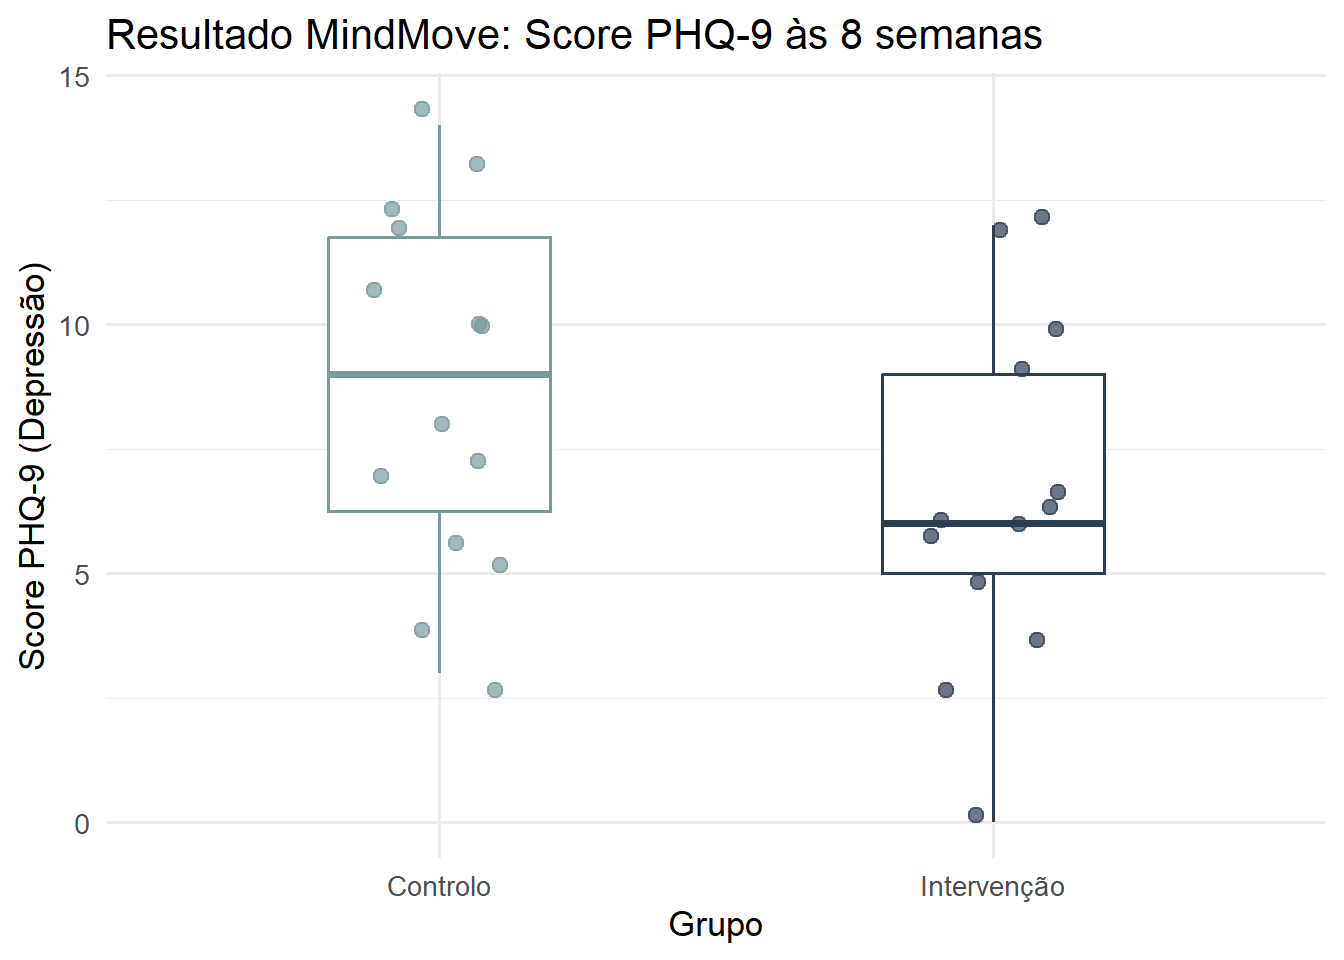
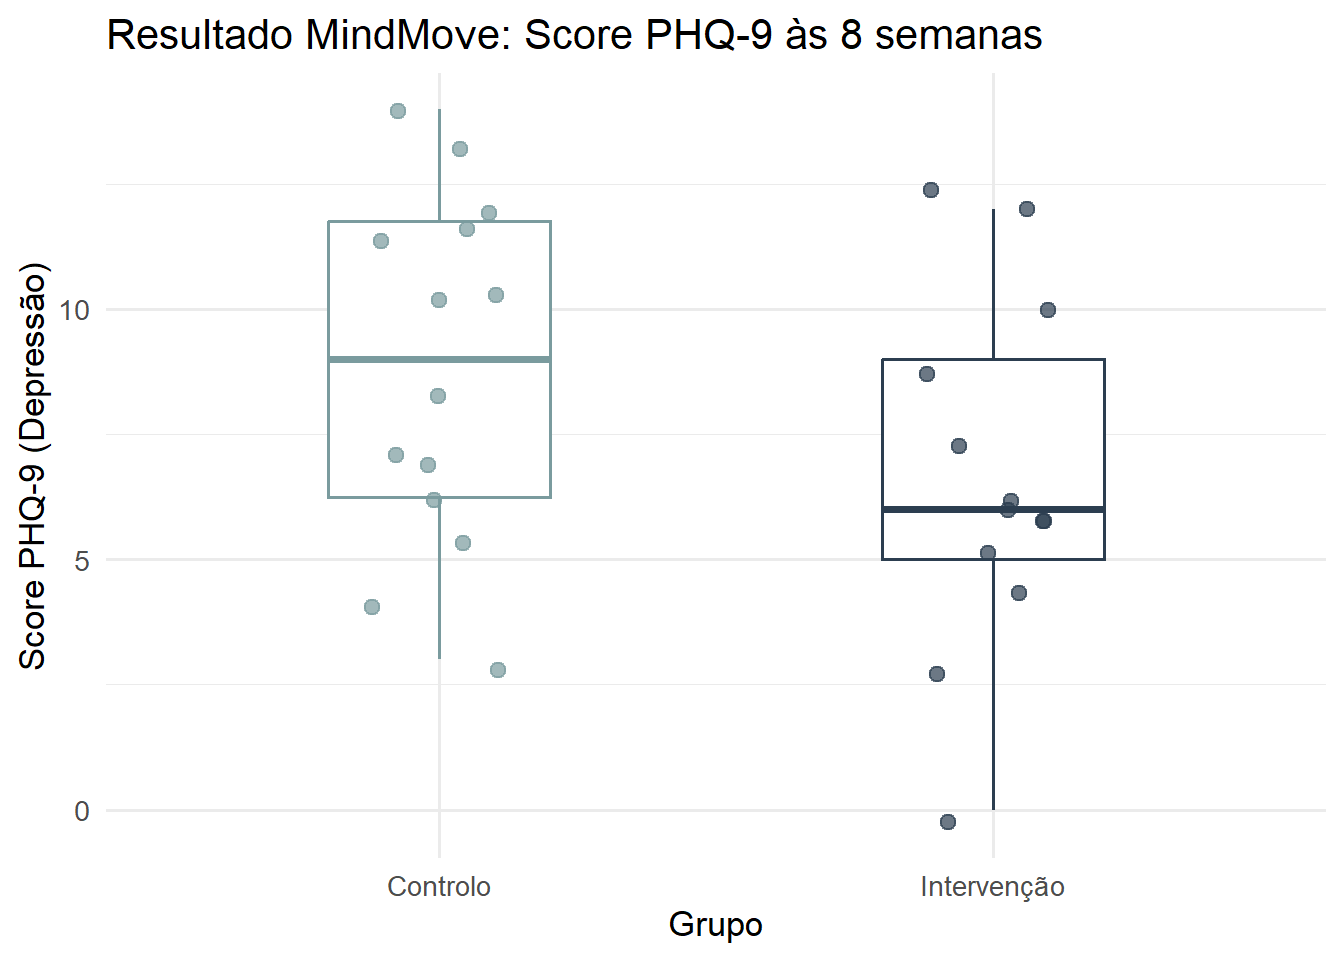
update do site

diff --git a/docs/resultados.html b/docs/resultados.html
@@ -173,23 +173,23 @@ ul.task-list li input[type="checkbox"] {
 <p>Abaixo apresentamos a caracterização sociodemográfica e clínica inicial dos participantes.</p>
 <div class="cell">
 <div class="cell-output-display">
-<div id="uxizyalizy" style="padding-left:0px;padding-right:0px;padding-top:10px;padding-bottom:10px;overflow-x:auto;overflow-y:auto;width:auto;height:auto;">
-<style>#uxizyalizy table {
+<div id="litavfvyph" style="padding-left:0px;padding-right:0px;padding-top:10px;padding-bottom:10px;overflow-x:auto;overflow-y:auto;width:auto;height:auto;">
+<style>#litavfvyph table {
   font-family: system-ui, 'Segoe UI', Roboto, Helvetica, Arial, sans-serif, 'Apple Color Emoji', 'Segoe UI Emoji', 'Segoe UI Symbol', 'Noto Color Emoji';
   -webkit-font-smoothing: antialiased;
   -moz-osx-font-smoothing: grayscale;
 }
 
-#uxizyalizy thead, #uxizyalizy tbody, #uxizyalizy tfoot, #uxizyalizy tr, #uxizyalizy td, #uxizyalizy th {
+#litavfvyph thead, #litavfvyph tbody, #litavfvyph tfoot, #litavfvyph tr, #litavfvyph td, #litavfvyph th {
   border-style: none;
 }
 
-#uxizyalizy p {
+#litavfvyph p {
   margin: 0;
   padding: 0;
 }
 
-#uxizyalizy .gt_table {
+#litavfvyph .gt_table {
   display: table;
   border-collapse: collapse;
   line-height: normal;
@@ -215,12 +215,12 @@ ul.task-list li input[type="checkbox"] {
   border-left-color: #D3D3D3;
 }
 
-#uxizyalizy .gt_caption {
+#litavfvyph .gt_caption {
   padding-top: 4px;
   padding-bottom: 4px;
 }
 
-#uxizyalizy .gt_title {
+#litavfvyph .gt_title {
   color: #333333;
   font-size: 125%;
   font-weight: initial;
@@ -232,7 +232,7 @@ ul.task-list li input[type="checkbox"] {
   border-bottom-width: 0;
 }
 
-#uxizyalizy .gt_subtitle {
+#litavfvyph .gt_subtitle {
   color: #333333;
   font-size: 85%;
   font-weight: initial;
@@ -244,7 +244,7 @@ ul.task-list li input[type="checkbox"] {
   border-top-width: 0;
 }
 
-#uxizyalizy .gt_heading {
+#litavfvyph .gt_heading {
   background-color: #FFFFFF;
   text-align: center;
   border-bottom-color: #FFFFFF;
@@ -256,13 +256,13 @@ ul.task-list li input[type="checkbox"] {
   border-right-color: #D3D3D3;
 }
 
-#uxizyalizy .gt_bottom_border {
+#litavfvyph .gt_bottom_border {
   border-bottom-style: solid;
   border-bottom-width: 2px;
   border-bottom-color: #D3D3D3;
 }
 
-#uxizyalizy .gt_col_headings {
+#litavfvyph .gt_col_headings {
   border-top-style: solid;
   border-top-width: 2px;
   border-top-color: #D3D3D3;
@@ -277,7 +277,7 @@ ul.task-list li input[type="checkbox"] {
   border-right-color: #D3D3D3;
 }
 
-#uxizyalizy .gt_col_heading {
+#litavfvyph .gt_col_heading {
   color: #333333;
   background-color: #FFFFFF;
   font-size: 100%;
@@ -297,7 +297,7 @@ ul.task-list li input[type="checkbox"] {
   overflow-x: hidden;
 }
 
-#uxizyalizy .gt_column_spanner_outer {
+#litavfvyph .gt_column_spanner_outer {
   color: #333333;
   background-color: #FFFFFF;
   font-size: 100%;
@@ -309,15 +309,15 @@ ul.task-list li input[type="checkbox"] {
   padding-right: 4px;
 }
 
-#uxizyalizy .gt_column_spanner_outer:first-child {
+#litavfvyph .gt_column_spanner_outer:first-child {
   padding-left: 0;
 }
 
-#uxizyalizy .gt_column_spanner_outer:last-child {
+#litavfvyph .gt_column_spanner_outer:last-child {
   padding-right: 0;
 }
 
-#uxizyalizy .gt_column_spanner {
+#litavfvyph .gt_column_spanner {
   border-bottom-style: solid;
   border-bottom-width: 2px;
   border-bottom-color: #D3D3D3;
@@ -329,11 +329,11 @@ ul.task-list li input[type="checkbox"] {
   width: 100%;
 }
 
-#uxizyalizy .gt_spanner_row {
+#litavfvyph .gt_spanner_row {
   border-bottom-style: hidden;
 }
 
-#uxizyalizy .gt_group_heading {
+#litavfvyph .gt_group_heading {
   padding-top: 8px;
   padding-bottom: 8px;
   padding-left: 5px;
@@ -359,7 +359,7 @@ ul.task-list li input[type="checkbox"] {
   text-align: left;
 }
 
-#uxizyalizy .gt_empty_group_heading {
+#litavfvyph .gt_empty_group_heading {
   padding: 0.5px;
   color: #333333;
   background-color: #FFFFFF;
@@ -374,15 +374,15 @@ ul.task-list li input[type="checkbox"] {
   vertical-align: middle;
 }
 
-#uxizyalizy .gt_from_md > :first-child {
+#litavfvyph .gt_from_md > :first-child {
   margin-top: 0;
 }
 
-#uxizyalizy .gt_from_md > :last-child {
+#litavfvyph .gt_from_md > :last-child {
   margin-bottom: 0;
 }
 
-#uxizyalizy .gt_row {
+#litavfvyph .gt_row {
   padding-top: 8px;
   padding-bottom: 8px;
   padding-left: 5px;
@@ -401,7 +401,7 @@ ul.task-list li input[type="checkbox"] {
   overflow-x: hidden;
 }
 
-#uxizyalizy .gt_stub {
+#litavfvyph .gt_stub {
   color: #333333;
   background-color: #FFFFFF;
   font-size: 100%;
@@ -414,7 +414,7 @@ ul.task-list li input[type="checkbox"] {
   padding-right: 5px;
 }
 
-#uxizyalizy .gt_stub_row_group {
+#litavfvyph .gt_stub_row_group {
   color: #333333;
   background-color: #FFFFFF;
   font-size: 100%;
@@ -428,15 +428,15 @@ ul.task-list li input[type="checkbox"] {
   vertical-align: top;
 }
 
-#uxizyalizy .gt_row_group_first td {
+#litavfvyph .gt_row_group_first td {
   border-top-width: 2px;
 }
 
-#uxizyalizy .gt_row_group_first th {
+#litavfvyph .gt_row_group_first th {
   border-top-width: 2px;
 }
 
-#uxizyalizy .gt_summary_row {
+#litavfvyph .gt_summary_row {
   color: #333333;
   background-color: #FFFFFF;
   text-transform: inherit;
@@ -446,16 +446,16 @@ ul.task-list li input[type="checkbox"] {
   padding-right: 5px;
 }
 
-#uxizyalizy .gt_first_summary_row {
+#litavfvyph .gt_first_summary_row {
   border-top-style: solid;
   border-top-color: #D3D3D3;
 }
 
-#uxizyalizy .gt_first_summary_row.thick {
+#litavfvyph .gt_first_summary_row.thick {
   border-top-width: 2px;
 }
 
-#uxizyalizy .gt_last_summary_row {
+#litavfvyph .gt_last_summary_row {
   padding-top: 8px;
   padding-bottom: 8px;
   padding-left: 5px;
@@ -465,7 +465,7 @@ ul.task-list li input[type="checkbox"] {
   border-bottom-color: #D3D3D3;
 }
 
-#uxizyalizy .gt_grand_summary_row {
+#litavfvyph .gt_grand_summary_row {
   color: #333333;
   background-color: #FFFFFF;
   text-transform: inherit;
@@ -475,7 +475,7 @@ ul.task-list li input[type="checkbox"] {
   padding-right: 5px;
 }
 
-#uxizyalizy .gt_first_grand_summary_row {
+#litavfvyph .gt_first_grand_summary_row {
   padding-top: 8px;
   padding-bottom: 8px;
   padding-left: 5px;
@@ -485,7 +485,7 @@ ul.task-list li input[type="checkbox"] {
   border-top-color: #D3D3D3;
 }
 
-#uxizyalizy .gt_last_grand_summary_row_top {
+#litavfvyph .gt_last_grand_summary_row_top {
   padding-top: 8px;
   padding-bottom: 8px;
   padding-left: 5px;
@@ -495,11 +495,11 @@ ul.task-list li input[type="checkbox"] {
   border-bottom-color: #D3D3D3;
 }
 
-#uxizyalizy .gt_striped {
+#litavfvyph .gt_striped {
   background-color: rgba(128, 128, 128, 0.05);
 }
 
-#uxizyalizy .gt_table_body {
+#litavfvyph .gt_table_body {
   border-top-style: solid;
   border-top-width: 2px;
   border-top-color: #D3D3D3;
@@ -508,7 +508,7 @@ ul.task-list li input[type="checkbox"] {
   border-bottom-color: #D3D3D3;
 }
 
-#uxizyalizy .gt_footnotes {
+#litavfvyph .gt_footnotes {
   color: #333333;
   background-color: #FFFFFF;
   border-bottom-style: none;
@@ -522,7 +522,7 @@ ul.task-list li input[type="checkbox"] {
   border-right-color: #D3D3D3;
 }
 
-#uxizyalizy .gt_footnote {
+#litavfvyph .gt_footnote {
   margin: 0px;
   font-size: 90%;
   padding-top: 4px;
@@ -531,7 +531,7 @@ ul.task-list li input[type="checkbox"] {
   padding-right: 5px;
 }
 
-#uxizyalizy .gt_sourcenotes {
+#litavfvyph .gt_sourcenotes {
   color: #333333;
   background-color: #FFFFFF;
   border-bottom-style: none;
@@ -545,7 +545,7 @@ ul.task-list li input[type="checkbox"] {
   border-right-color: #D3D3D3;
 }
 
-#uxizyalizy .gt_sourcenote {
+#litavfvyph .gt_sourcenote {
   font-size: 90%;
   padding-top: 4px;
   padding-bottom: 4px;
@@ -553,72 +553,72 @@ ul.task-list li input[type="checkbox"] {
   padding-right: 5px;
 }
 
-#uxizyalizy .gt_left {
+#litavfvyph .gt_left {
   text-align: left;
 }
 
-#uxizyalizy .gt_center {
+#litavfvyph .gt_center {
   text-align: center;
 }
 
-#uxizyalizy .gt_right {
+#litavfvyph .gt_right {
   text-align: right;
   font-variant-numeric: tabular-nums;
 }
 
-#uxizyalizy .gt_font_normal {
+#litavfvyph .gt_font_normal {
   font-weight: normal;
 }
 
-#uxizyalizy .gt_font_bold {
+#litavfvyph .gt_font_bold {
   font-weight: bold;
 }
 
-#uxizyalizy .gt_font_italic {
+#litavfvyph .gt_font_italic {
   font-style: italic;
 }
 
-#uxizyalizy .gt_super {
+#litavfvyph .gt_super {
   font-size: 65%;
 }
 
-#uxizyalizy .gt_footnote_marks {
+#litavfvyph .gt_footnote_marks {
   font-size: 75%;
   vertical-align: 0.4em;
   position: initial;
 }
 
-#uxizyalizy .gt_asterisk {
+#litavfvyph .gt_asterisk {
   font-size: 100%;
   vertical-align: 0;
 }
 
-#uxizyalizy .gt_indent_1 {
+#litavfvyph .gt_indent_1 {
   text-indent: 5px;
 }
 
-#uxizyalizy .gt_indent_2 {
+#litavfvyph .gt_indent_2 {
   text-indent: 10px;
 }
 
-#uxizyalizy .gt_indent_3 {
+#litavfvyph .gt_indent_3 {
   text-indent: 15px;
 }
 
-#uxizyalizy .gt_indent_4 {
+#litavfvyph .gt_indent_4 {
   text-indent: 20px;
 }
 
-#uxizyalizy .gt_indent_5 {
+#litavfvyph .gt_indent_5 {
   text-indent: 25px;
 }
 
-#uxizyalizy .katex-display {
+#litavfvyph .katex-display {
   display: inline-flex !important;
   margin-bottom: 0.75em !important;
 }
 
-#uxizyalizy div.Reactable > div.rt-table > div.rt-thead > div.rt-tr.rt-tr-group-header > div.rt-th-group:after {
+#litavfvyph div.Reactable > div.rt-table > div.rt-thead > div.rt-tr.rt-tr-group-header > div.rt-th-group:after {
   height: 0px !important;
 }
 </style>